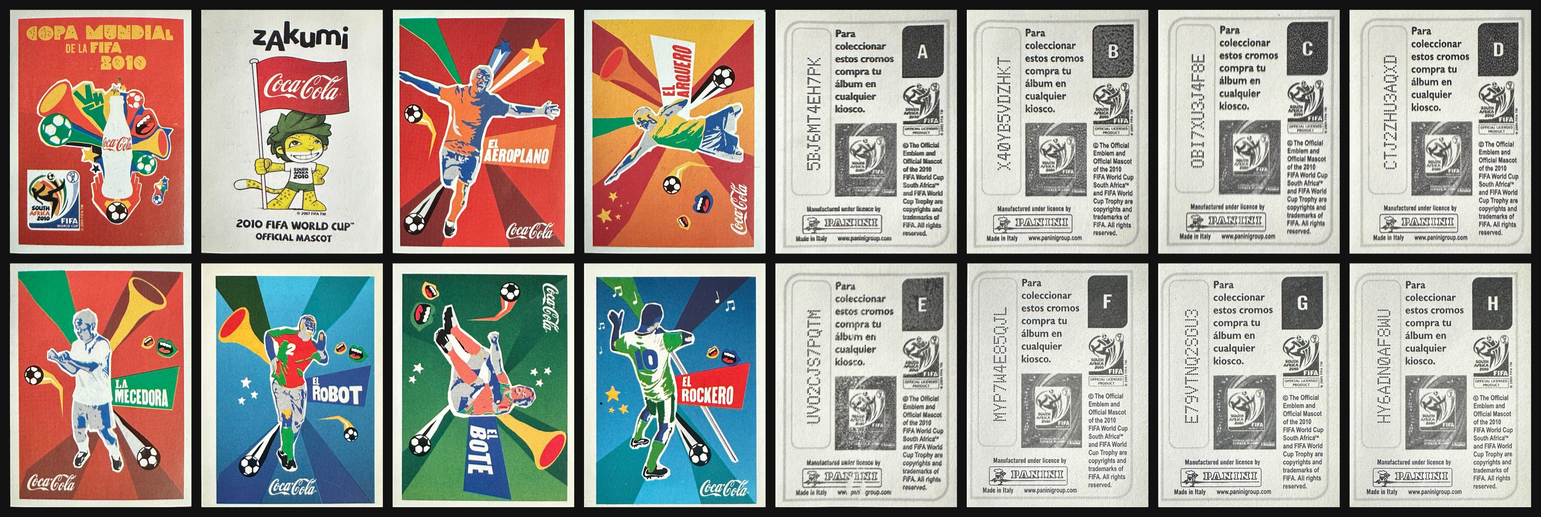
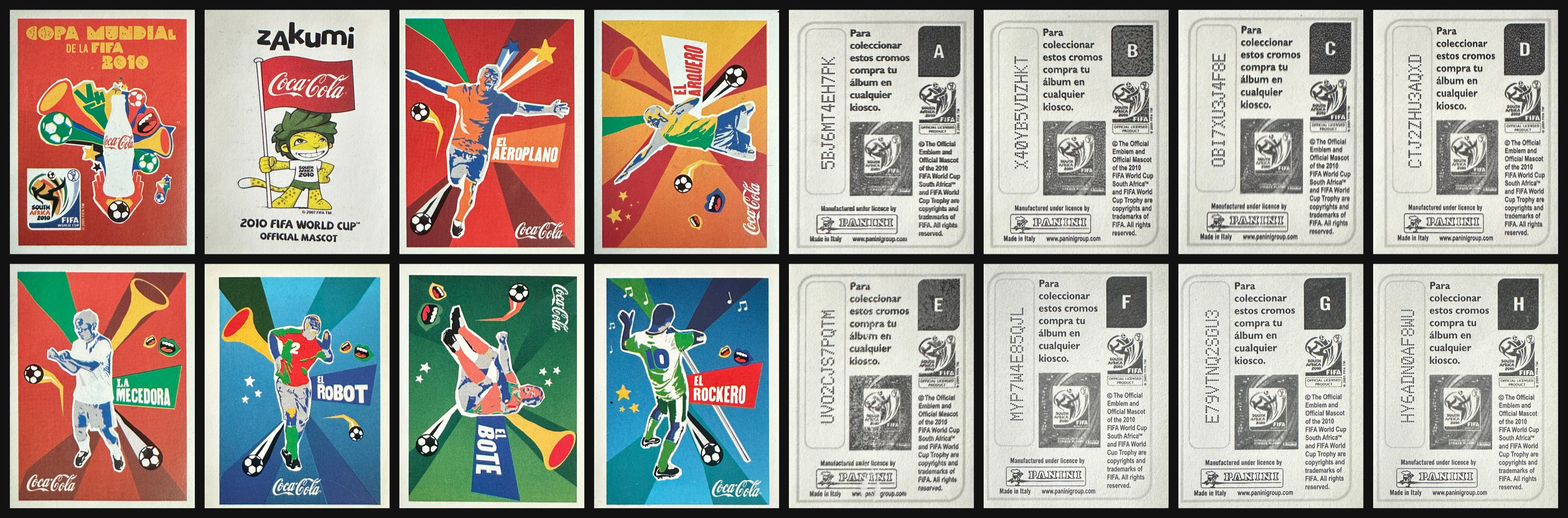
v1.37.7: straighter scans, new set backs, DHL stickers in
- Re-checked every scan against the current scanner code: 10 player photos and 7 sets
  rebuilt straighter (both 2010 Swiss pairs included); 2018 Coca Cola México Botella backs
  recut so no cloth shows, each back the shape of its front
- Tengo: the DHL shipment (2006, 2010, 2018 and 2022 for Messi, Ronaldo, Mbappé), Messi
  2014 430 and 2018 276 Made in Brazil
- Data: 2026 CC USA Error moved to Otros (CC12), Trading Cards renamed Tarjetas with
  "Coca Cola" inside it; short checklist names where they wrapped (Mc O. Medio,
  CC/Mc Sin núm.)

diff --git a/index.html b/index.html
@@ -45,7 +45,7 @@
           <svg class="theme-icon theme-icon-moon" viewBox="0 0 512 512" aria-hidden="true"><path fill="currentColor" d="M283.211 512c78.962 0 151.079-35.925 198.857-94.792 7.068-8.708-.639-21.43-11.562-19.35-124.203 23.654-238.262-71.576-238.262-196.954 0-72.222 38.662-138.635 101.498-174.394 9.686-5.512 7.25-20.197-3.756-22.23A258.156 258.156 0 0 0 283.211 0c-141.309 0-256 114.511-256 256 0 141.309 114.511 256 256 256z"/></svg>
           <svg class="theme-icon theme-icon-sun" viewBox="0 0 512 512" aria-hidden="true"><path fill="currentColor" d="M256 160c-52.9 0-96 43.1-96 96s43.1 96 96 96 96-43.1 96-96-43.1-96-96-96zm246.4 80.5-94.7-47.3 33.5-100.4c4.5-13.6-8.4-26.5-21.9-21.9l-100.4 33.5-47.4-94.8c-6.4-12.8-24.6-12.8-31 0l-47.3 94.7L92.7 70.8c-13.6-4.5-26.5 8.4-21.9 21.9l33.5 100.4-94.7 47.4c-12.8 6.4-12.8 24.6 0 31l94.7 47.3-33.5 100.5c-4.5 13.6 8.4 26.5 21.9 21.9l100.4-33.5 47.3 94.7c6.4 12.8 24.6 12.8 31 0l47.3-94.7 100.4 33.5c13.6 4.5 26.5-8.4 21.9-21.9l-33.5-100.4 94.7-47.3c13-6.5 13-24.7.2-31.1zm-155.9 106c-49.9 49.9-131.1 49.9-181 0-49.9-49.9-49.9-131.1 0-181 49.9-49.9 131.1-49.9 181 0 49.9 49.9 49.9 131.1 0 181z"/></svg>
         </button>
-        <h1 class="inv-title" tabindex="-1"><span id="inv-title-text">Colección Panini</span><span class="inv-version">v1.37.6</span></h1>
+        <h1 class="inv-title" tabindex="-1"><span id="inv-title-text">Colección Panini</span><span class="inv-version">v1.37.7</span></h1>
         <div class="inv-stats" id="inv-stats"></div>
       </section>
 
@@ -373,13 +373,13 @@
           sets: [
             { id: "messi",     label: "Messi",             afterPostales: true, items: [
               { label: "185", items: [
-                { label: "Made in Brazil", coming: true },
+                { label: "Made in Brazil", complete: true },
                 { label: "Made in Italy",  complete: true, photo: "Messi_2006_185_MadeInItaly.jpg" },
               ] },
             ] },
             { id: "cristiano", label: "Ronaldo",            afterPostales: true, items: [
               { label: "298", items: [
-                { label: "Made in Brazil", coming: true },
+                { label: "Made in Brazil", complete: true },
                 { label: "Made in Italy",  complete: true, photo: "Ronaldo_2006_298_MadeInItaly.jpg" },
               ] },
             ] },
@@ -526,7 +526,7 @@
             { id: "messi",     label: "Messi",             afterPostales: true, items: [
               { label: "122", items: [
                 { label: "Made in Brazil",      dot: "azul",   complete: true, photo: "Messi_2010_122_MadeInBrazil.jpg" },
-                { label: "Made in Italy",       dot: "azul",   coming: true },
+                { label: "Made in Italy",       dot: "azul",   complete: true },
                 { label: "Made in Italy",       dot: "negra",  complete: true, photo: "Messi_2010_122_MadeInItaly_Negra.jpg" },
                 { label: "Ind. Argentina",      dot: "negra",  complete: false },
                 { label: "Swiss",               complete: true, photo: "Messi_2010_122_Swiss.jpg" },
@@ -540,7 +540,7 @@
             { id: "cristiano", label: "Ronaldo",            afterPostales: true, items: [
               { label: "559", items: [
                 { label: "Made in Brazil",      dot: "azul",   complete: true, photo: "Ronaldo_2010_559_MadeInBrazil.jpg" },
-                { label: "Made in Italy",       dot: "azul",   coming: true },
+                { label: "Made in Italy",       dot: "azul",   complete: true },
                 { label: "Made in Italy",       dot: "negra",  complete: true, photo: "Ronaldo_2010_559_MadeInItaly_Negra.jpg" },
                 { label: "Ind. Argentina",      dot: "negra",  complete: false },
                 { label: "Swiss",               complete: true, photo: "Ronaldo_2010_559_Swiss.jpg" },
@@ -648,7 +648,7 @@
             ] },
             { id: "messi",     label: "Messi",             afterPostales: true, items: [
               { label: "430", items: [
-                { label: "Made in Brazil", coming: true, photo: "Messi_2014_430_MadeInBrazil.jpg" },
+                { label: "Made in Brazil", complete: true, photo: "Messi_2014_430_MadeInBrazil.jpg" },
                 { label: "Made in Italy",  complete: true, photo: "Messi_2014_430_MadeInItaly.jpg" },
                 { label: "Ind. Argentina", complete: false },
                 { label: "Platinum",       complete: false },
@@ -840,12 +840,12 @@
             ] },
             { id: "messi",     label: "Messi",             afterPostales: true, items: [
               { label: "276", items: [
-                { label: "Made in Brazil", dot: "rosada", coming: true, photo: "Messi_2018_276_MadeInBrazil.jpg" },
+                { label: "Made in Brazil", dot: "rosada", complete: true, photo: "Messi_2018_276_MadeInBrazil.jpg" },
                 { label: "Made in Italy",  dot: "rosada", complete: true, photo: "Messi_2018_276_MadeInItaly.jpg" },
                 { label: "Ind. Argentina", dot: "rosada", complete: false },
               ] },
               { label: "288", items: [
-                { label: "Made in Brazil", dot: "negra", coming: true },
+                { label: "Made in Brazil", dot: "negra", complete: true },
                 { label: "Made in Italy",  dot: "negra", complete: true, photo: "Messi_2018_288_MadeInItaly.jpg" },
                 { label: "Gold",                         complete: true, photo: "Messi_2018_288_Gold.jpg" },
               ] },
@@ -857,7 +857,7 @@
                 { label: "Ind. Argentina", dot: "rosada", complete: false },
               ] },
               { label: "130", items: [
-                { label: "Made in Brazil", dot: "negra", coming: true },
+                { label: "Made in Brazil", dot: "negra", complete: true },
                 { label: "Made in Italy",  dot: "negra", complete: true, photo: "Ronaldo_2018_130_MadeInItaly.jpg" },
                 { label: "Gold",                         complete: true, photo: "Ronaldo_2018_130_Gold.jpg" },
               ] },
@@ -870,7 +870,7 @@
                 { label: "Ind. Argentina", dot: "rosada", complete: false },
               ] },
               { label: "209", items: [
-                { label: "Made in Brazil", dot: "negra", coming: true },
+                { label: "Made in Brazil", dot: "negra", complete: true },
                 { label: "Made in Italy",  dot: "negra", complete: true, photo: "Mbappe_2018_209_MadeInItaly.jpg" },
                 { label: "Gold",                         complete: false },
               ] },
@@ -1072,7 +1072,7 @@
                 { label: "Ind. Argentina", dot: "naranja", complete: false },
               ] },
               { label: "ARG 20", items: [
-                { label: "Made in Brazil", dot: "violeta", coming: true },
+                { label: "Made in Brazil", dot: "violeta", complete: true },
                 { label: "Made in Italy", dot: "violeta", complete: true, photo: "Messi_2022_ARG20_MadeInItaly.jpg" },
                 { label: "Oryx", dot: "granate", complete: false, photo: "Messi_2022_ARG20_Oryx.jpg" },
                 { label: "USA", dot: "blanca", complete: true, photo: "Messi_2022_ARG20_USA_Blanca.jpg" },
@@ -1093,7 +1093,7 @@
                 { label: "Ind. Argentina", dot: "naranja", complete: false },
               ] },
               { label: "POR 18", items: [
-                { label: "Made in Brazil", dot: "violeta", coming: true },
+                { label: "Made in Brazil", dot: "violeta", complete: true },
                 { label: "Made in Italy", dot: "violeta", complete: true, photo: "Ronaldo_2022_POR18_MadeInItaly.jpg" },
                 { label: "Oryx", dot: "granate", complete: true, photo: "Ronaldo_2022_POR18_Oryx.jpg" },
                 { label: "USA", dot: "blanca", complete: true, photo: "Ronaldo_2022_POR18_USA_Blanca.jpg" },
@@ -1114,7 +1114,7 @@
                 { label: "Ind. Argentina", dot: "naranja", complete: false },
               ] },
               { label: "FRA 19", items: [
-                { label: "Made in Brazil", dot: "violeta", coming: true },
+                { label: "Made in Brazil", dot: "violeta", complete: true },
                 { label: "Made in Italy", dot: "violeta", complete: true, photo: "Mbappe_2022_FRA19_MadeInItaly.jpg" },
                 { label: "Oryx", dot: "granate", complete: true, photo: "Mbappe_2022_FRA19_Oryx.jpg" },
                 { label: "USA", dot: "blanca", complete: true, photo: "Mbappe_2022_FRA19_USA_Blanca.jpg" },
@@ -2304,20 +2304,20 @@
       // distance from the next.
       const SET_PREVIEWS = {
         "CocaCola_2010_Alemania.jpg": [[0.452, 0.596]],
-        "CocaCola_2010_Latam.jpg": [[0.905, 0.597]],
+        "CocaCola_2010_Latam.jpg": [[0.919, 0.597]],
         "Otros_2010_TournamentTracker.jpg": [[0.887, 1.205], [0.887, 0.597]],
         "Variantes_2010_Brasil.jpg": [[0.596, 0.492]],
-        "CocaCola_2014_Europa.jpg": [[0.432, 0.901]],
+        "CocaCola_2014_Europa.jpg": [[0.452, 0.901]],
         "CocaCola_2014_Mexico.jpg": [[0.891, 0.597]],
-        "Variantes_2014_Brasil.jpg": [[0.887, 0.901]],
-        "Variantes_2014_Ecuador.jpg": [[0.897, 0.901]],
+        "Variantes_2014_Brasil.jpg": [[0.923, 0.901]],
+        "Variantes_2014_Ecuador.jpg": [[0.924, 0.901]],
         "CocaCola_2018_Suiza_Botella.jpg": [[0.974, 0.901]],
-        "CocaCola_2018_Suiza_Numerada.jpg": [[0.832, 0.901]],
+        "CocaCola_2018_Suiza_Numerada.jpg": [[0.880, 0.901]],
         "CocaCola_2018_Mexico_Botella.jpg": [[0.714, 0.901]],
         "CocaCola_2018_Mexico_Numerada.jpg": [[0.687, 0.901]],
         "McDonalds_2018_Alemania.jpg": [[0.696, 0.902]],
-        "McDonalds_2018_Portugal.jpg": [[0.882, 0.597]],
-        "McDonalds_2018_Rusia.jpg": [[0.884, 0.597]],
+        "McDonalds_2018_Portugal.jpg": [[0.931, 0.597]],
+        "McDonalds_2018_Rusia.jpg": [[0.925, 0.597]],
         "McDonalds_2018_SinNumero.jpg": [[0.920, 1.205], [0.920, 1.205], [0.920, 0.597]],
         "CocaCola_2022_America_Numerada.jpg": [[0.876, 0.596]],
         "CocaCola_2022_Europa_Botella.jpg": [[0.800, 1.205]],
